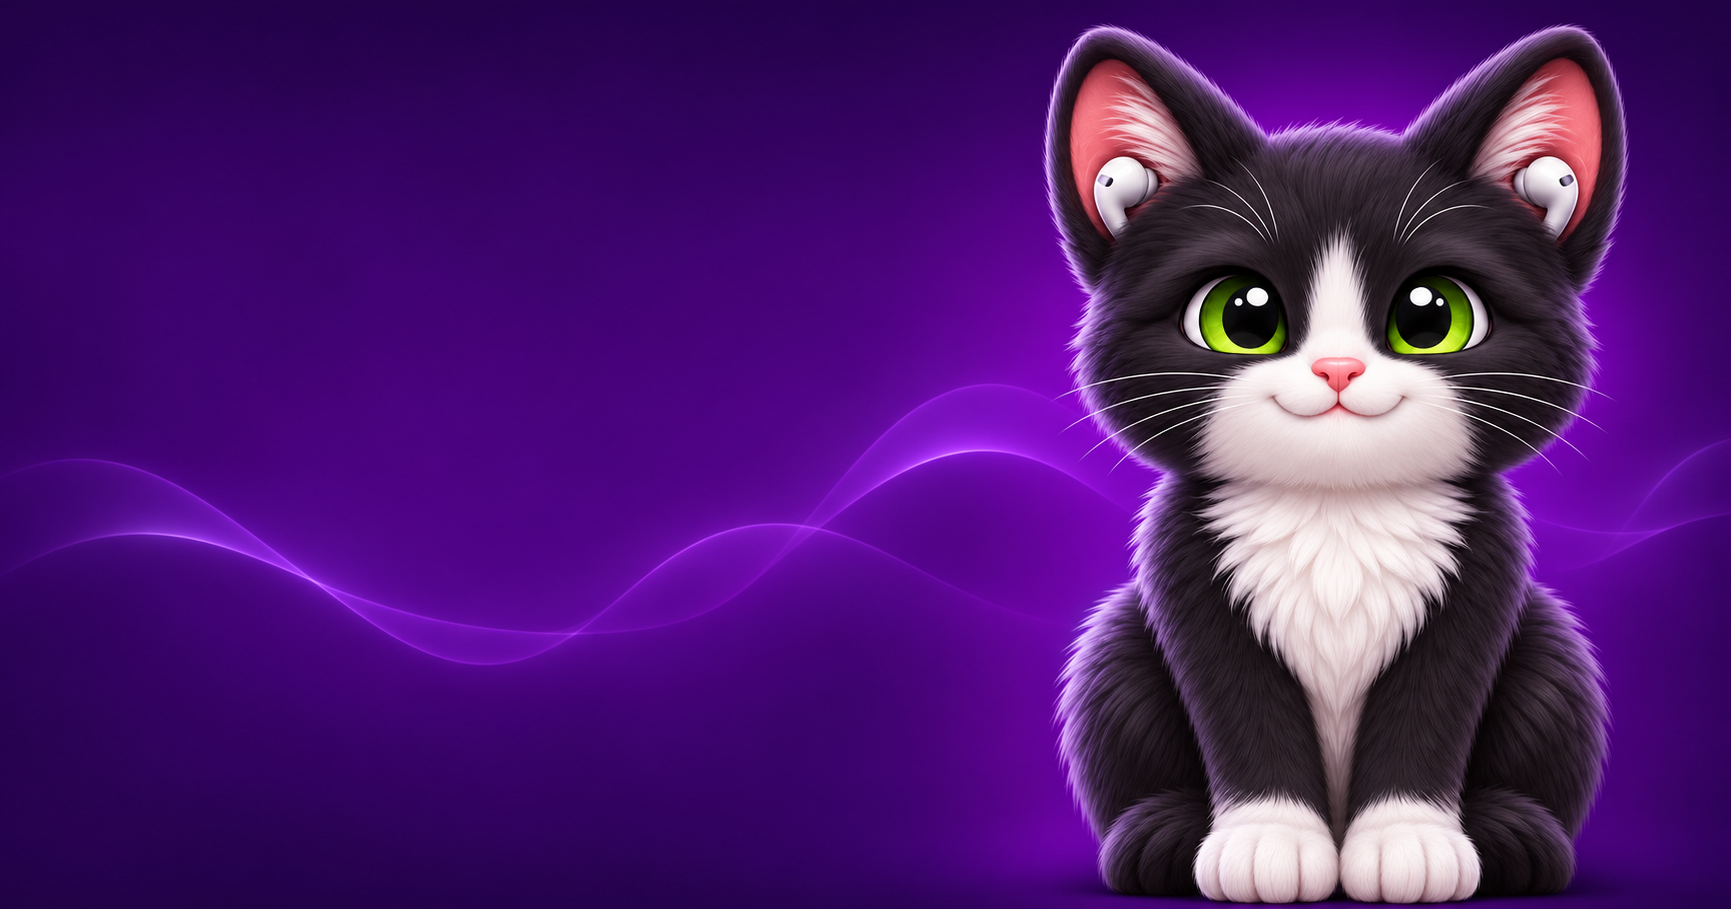
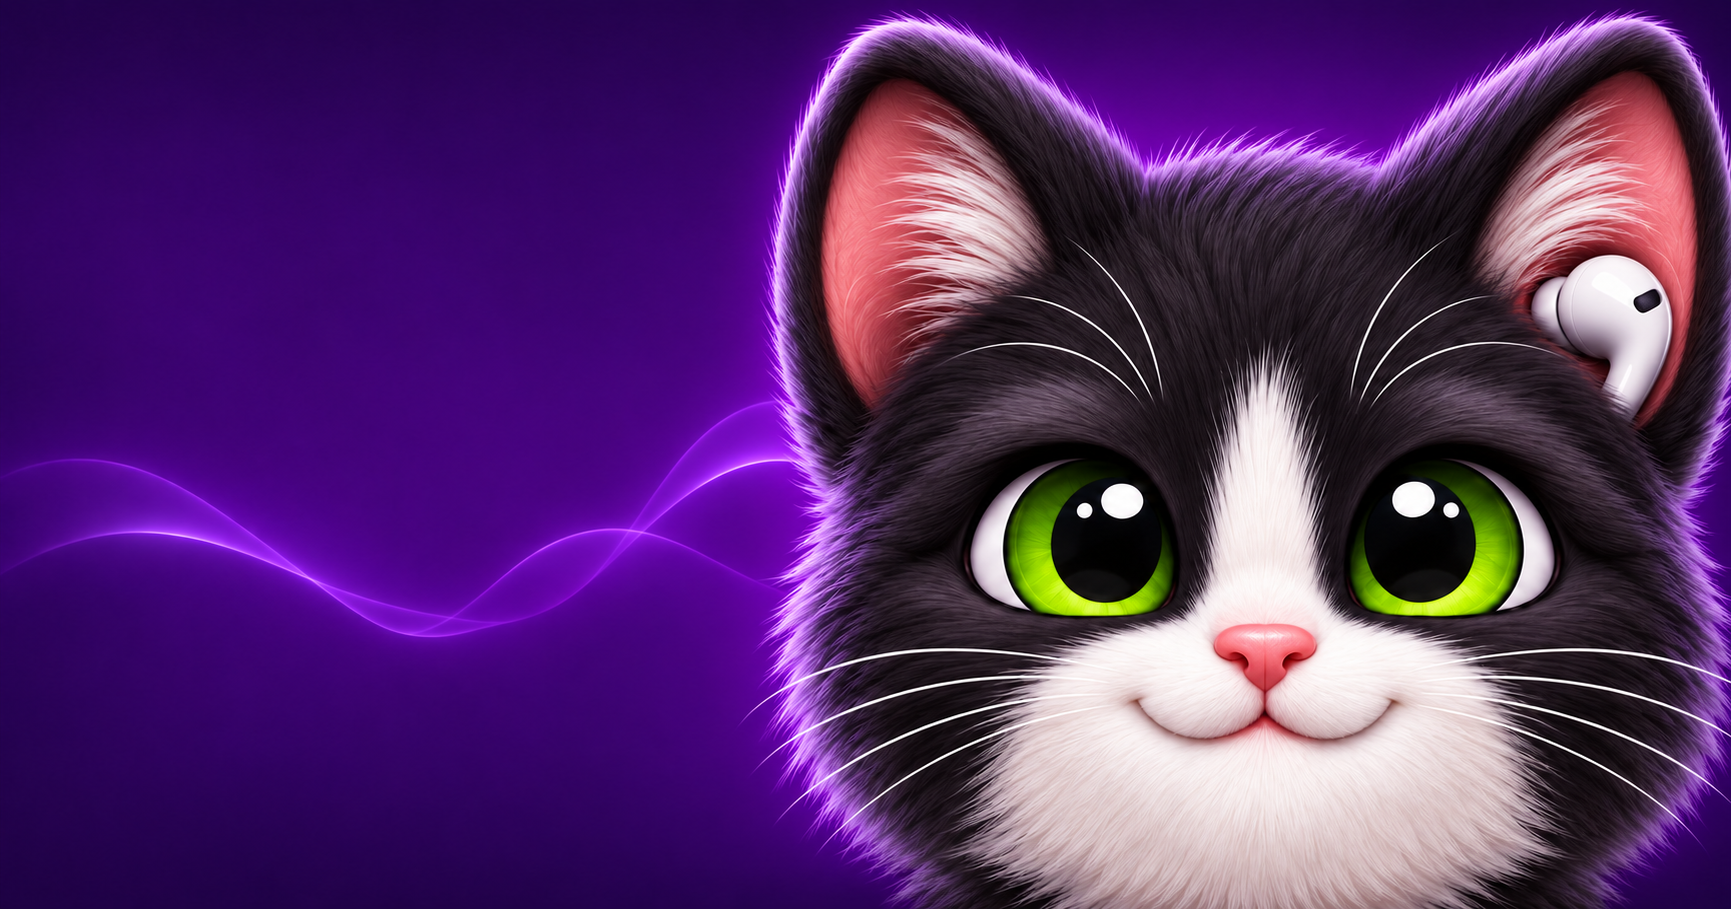
Update Mewzek share image with close-up cat

diff --git a/index.html b/index.html
@@ -10,9 +10,9 @@
   <meta property="og:title" content="Mewzek">
   <meta property="og:description" content="Press play. Let the purrs begin.">
   <meta property="og:url" content="https://mewzek.com/">
-  <meta property="og:image" content="https://mewzek.com/mewzek-social.png">
+  <meta property="og:image" content="https://mewzek.com/mewzek-social.png?v=2">
   <meta name="twitter:card" content="summary_large_image">
-  <meta name="twitter:image" content="https://mewzek.com/mewzek-social.png">
+  <meta name="twitter:image" content="https://mewzek.com/mewzek-social.png?v=2">
   <link rel="icon" type="image/png" href="./mewzek-cat-earbuds.png?v=2">
   <link rel="apple-touch-icon" href="./mewzek-cat-earbuds.png?v=2">
   <style>
